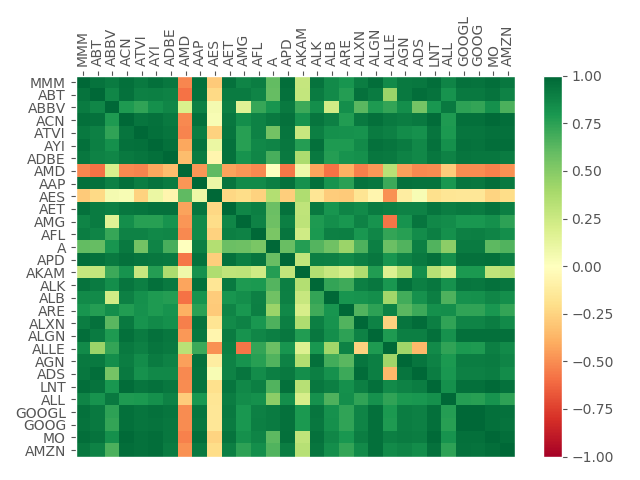
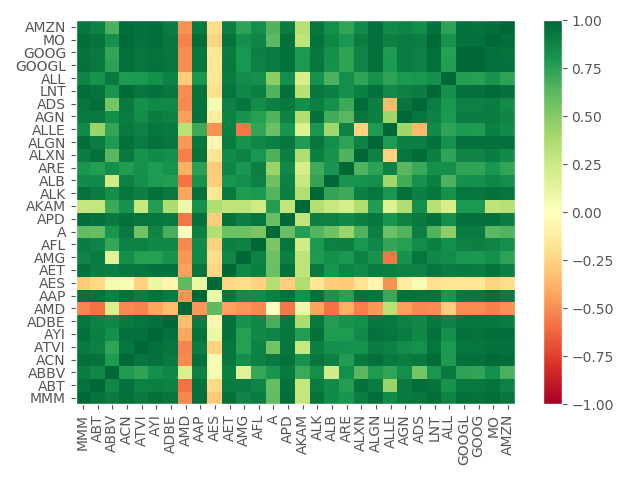
update

diff --git a/Python Programming for Finance/Python Programming for Finance Lesson 12 ML against sp500 company prices.py b/Python Programming for Finance/Python Programming for Finance Lesson 12 ML against sp500 company prices.py
@@ -1,0 +1,89 @@
+import numpy as np
+import pandas as pd
+import pickle
+from collections import Counter
+from sklearn import svm,cross_validation, neighbors
+from sklearn.ensemble import VotingClassifier, RandomForestClassifier
+
+def process_data_for_labels(ticker):
+    hm_days=7
+    df = pd.read_csv('sp500_joined_closes.csv',index_col=0)
+    tickers = df.columns.values.tolist()
+    df.fillna(0,inplace=True)
+
+    for i in range(1,hm_days+1):
+        df['{}_{}d'.format(ticker,i)] = (df[ticker].shift(-i) - df[ticker])/ df[ticker]
+
+    df.fillna(0, inplace=True)
+    return tickers, df
+
+def buy_sell_hold(*args):
+    cols = [c for c in args]
+    requirement = 0.02
+    for col in cols:
+        if col > requirement:
+            return 1
+        if col < requirement:
+            return -1
+    return 0
+
+def extract_featuresets(ticker):
+    tickers,df = process_data_for_labels(ticker)
+
+    df['{}_target'.format(ticker)] = list(map(buy_sell_hold,
+                                              df['{}_1d'.format(ticker)],
+                                              df['{}_2d'.format(ticker)],
+                                              df['{}_3d'.format(ticker)],
+                                              df['{}_4d'.format(ticker)],
+                                              df['{}_5d'.format(ticker)],
+                                              df['{}_6d'.format(ticker)],
+                                              df['{}_7d'.format(ticker)]))
+
+    vals = df['{}_target'.format(ticker)].values.tolist()
+    str_vals = [str(i) for i in vals]
+    print('Data spread:',Counter(str_vals))
+
+    df.fillna(0, inplace=True)
+    df = df.replace([np.inf, -np.inf],np.nan)
+    df.dropna(inplace=True)
+
+    df_vals = df[[ticker for ticker in tickers]].pct_change()
+    df_vals = df_vals.replace([np.inf,-np.inf],0)
+    df_vals.fillna(0, inplace=True)
+
+    X = df_vals.values
+    y = df['{}_target'.format(ticker)].values
+
+    return X,y,df
+
+def do_ml(ticker):
+    X,y,df = extract_featuresets(ticker)
+
+    X_train, X_test, y_train, y_test = cross_validation.train_test_split(X,y, test_size = 0.25)
+
+##    clf = neighbors.KNeighborsClassifier()
+    clf = VotingClassifier([('lsvc',svm.LinearSVC()),
+                            ('knn',neighbors.KNeighborsClassifier()),
+                            ('rfor',RandomForestClassifier())])
+    clf.fit(X_train,y_train)
+    confidence = clf.score(X_test,y_test)
+
+    print('accuracy :', confidence)
+    predictions = clf.predict(X_test)
+    print('predicted class counts:', Counter(predictions))
+    print()
+    print()
+    return confidence
+
+##examples to run
+##do_ml('MMM')
+##do_ml('AES')
+##do_ml('AMZN')
+
+    
+           
+
+
+
+
+                              

diff --git a/Python Programming for Finance/Python Programming for Finance Lesson 10 & 11 buy sell hold.py b/Python Programming for Finance/Python Programming for Finance Lesson 10 & 11 buy sell hold.py
@@ -1,0 +1,82 @@
+import numpy as np
+import pandas as pd
+import pickle
+from collection import Counter
+from sklearn import svm,cross_validation, neighbors
+from sklearn.ensemble import VotingClassifier, RandomForestClassifier
+
+def process_data_for_labels(ticker):
+    hm_days=7
+    df = pd.read_csv('sp500_joined_closes.csv',index_col=0)
+    tickers = df.columns.values.tolist()
+    df.fillna(0,inplace=True)
+
+    for i in range(1,hm_days+1):
+        df['{}_{}d'.format(ticker,i)] = (df[ticker].shift(-i) - df[ticker])/ df[ticker]
+
+    df.fillna(0, inplace=True)
+    return tickers, df
+
+def buy_sell_hold(*args):
+    cols = [c for c in args]
+    requirement = 0.02
+    for col in cols:
+        if col > requirement:
+            return 1
+        if col < requirement:
+            return -1
+    return 0
+
+def extract_featuresets(ticker):
+    tickers,df = process_data_for_labels(ticker)
+
+    df['{}_target'.format(ticker)] = list(map(buy_sell_hold,
+                                              df['{}_1d'.format(ticker)],
+                                              df['{}_2d'.format(ticker)],
+                                              df['{}_3d'.format(ticker)],
+                                              df['{}_4d'.format(ticker)],
+                                              df['{}_5d'.format(ticker)],
+                                              df['{}_6d'.format(ticker)],
+                                              df['{}_7d'.format(ticker)]))
+
+    vals = df['{}_target'.format(ticker)].values.tolist()
+    str_vals = [str(i) for i in vals]
+    print('Data spread:',Counter(str_vals))
+
+    df.fillna(0, inplace=True)
+    df = df.replace([np.inf, -np.inf],np.nan)
+    df.dropna(inplace=True)
+
+    df_vals = df[[ticker for ticker in ticlers]].pct_change()
+    df_vals = df_vals.replace([np.inf,-np.inf],0)
+    df_vals.fillna(0, inplace=True)
+
+    X = df_vals.values
+    y = df['{}_target'.format(ticker)].values
+
+    return X,y,df
+
+def do_ml(ticker):
+    X,y,df = extract_featuresets(ticker)
+
+    X_train, X_test, y_train, y_test = cross_validation.train_test_split(X,y, testsize =0.25)
+
+    clf = neighbors.KNeighborsClassifier()
+    clf.fit(X_train,y_train)
+    confidence = clf.score(X_test,y_test)
+
+    print('accuracy :', confidence)
+    predictions = clf.predict(X_test)
+    print('predicted class counts:', Counter(predictions))
+
+
+do_ml('MMM')
+                                            
+    
+    
+           
+
+
+
+
+                              

diff --git a/Python Programming for Finance/Python Programming for Finance Lesson 8 correlation table for relationship.py b/Python Programming for Finance/Python Programming for Finance Lesson 8 correlation table for relationship.py
@@ -94,8 +94,8 @@ def visualize_data():
     ax1.set_xticks(np.arange(data1.shape[1]) + 0.5, minor = False)
     ax1.set_yticks(np.arange(data1.shape[0]) + 0.5, minor = False)
 
-##    ax1.invert_yaxis()
-##    ax1.xaxis.tick_top()
+    ax1.invert_yaxis()
+    ax1.xaxis.tick_top()
 
     column_labels = df_corr.columns
     row_labels = df_corr.index
@@ -107,21 +107,9 @@ def visualize_data():
     plt.tight_layout()
     plt.savefig("correlation.png", dpt=(300))
     plt.show()
+    
 
-def process_data_for_labels(ticker):
-    hm_days=7
-    df = pd.read_csv('sp500_joined_closes.csv',index_col=0)
-    tickers = df.columns.values.tolist()
-    df.fillna(0,inplace=True)
-
-    for i in range(1,hm_days+1):
-        df['{}_{}d'.format(ticker,i)] = (df[ticker].shift(-i) - df[ticker])/ df[ticker]
-
-    df.fillna(0, inplace=True)
-    return tickers, df
-
-
-
+visualize_data()
 
 
                               

diff --git a/Python Programming for Finance/Python Programming for Finance Lesson 9 processing for ML.py b/Python Programming for Finance/Python Programming for Finance Lesson 9 processing for ML.py
@@ -10,6 +10,7 @@ import pickle
 import requests
 import time
 
+
 style.use('ggplot')
 
 def save_sp500_ticker():
@@ -108,6 +109,7 @@ def visualize_data():
     plt.savefig("correlation.png", dpt=(300))
     plt.show()
 
+
 def process_data_for_labels(ticker):
     hm_days=7
     df = pd.read_csv('sp500_joined_closes.csv',index_col=0)
@@ -120,8 +122,7 @@ def process_data_for_labels(ticker):
     df.fillna(0, inplace=True)
     return tickers, df
 
-
-
+ 
 
 
                               

diff --git a/Python Programming for Finance/run against all tickers.py b/Python Programming for Finance/run against all tickers.py
@@ -1,0 +1,15 @@
+from statistic import mean
+
+with open("sp500tickers.pickle","rb") as f:
+    tickers = pickle.load(f)
+
+accuracies =[]
+for count,ticker in enumerate(tickers):
+
+    if count%10==0:
+        print(count)
+
+    accuracy = do_ml(ticker)
+    accuracies.append(accuracy)
+    print("{} accuracy:{}.Average accuracy:{}".format(ticker,accuracy,mean(accuracies))
+    
